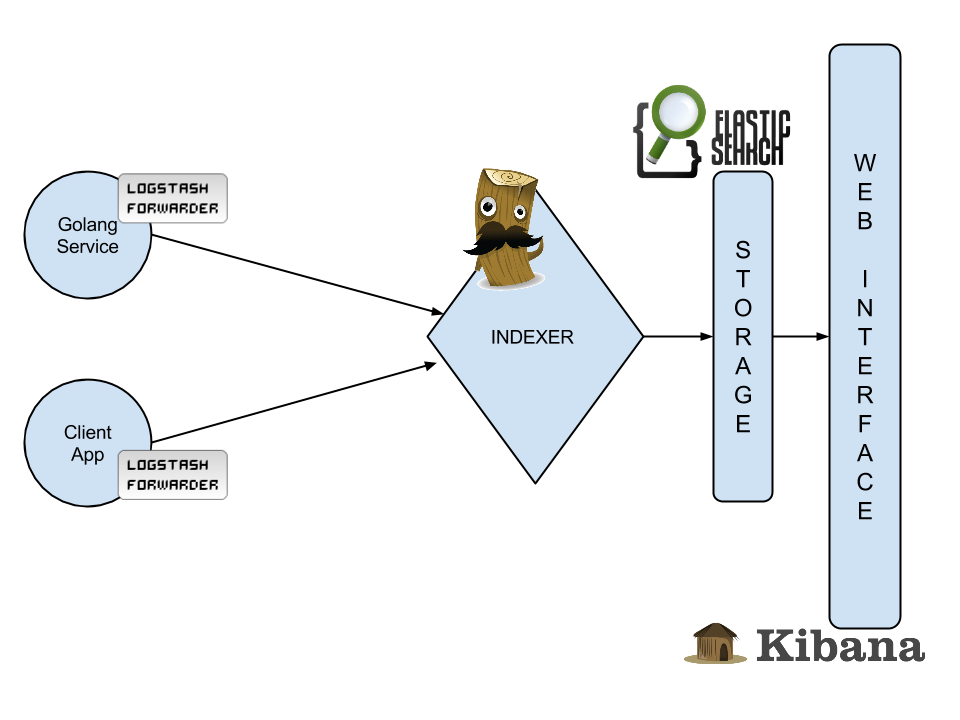
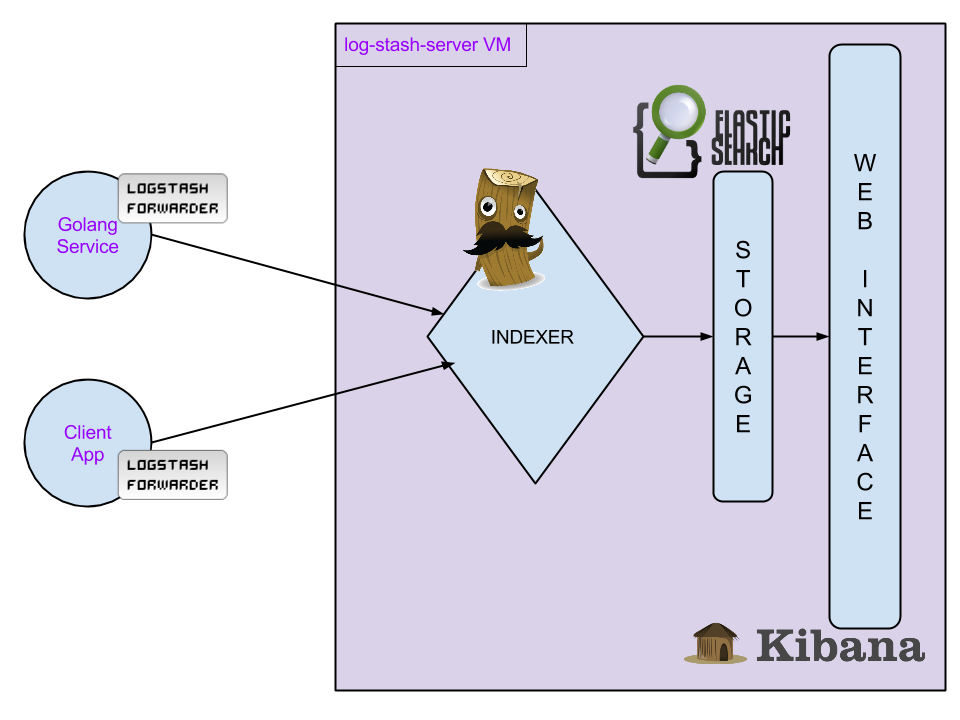
part 1 pretty

diff --git a/04-logstash/index-2.html b/04-logstash/index-2.html
@@ -32,35 +32,64 @@
 	<div class="row">
 		<div class="col-xs-10 col-xs-offset-1">
 			
-		 	<h1>Logstash + Grok + Elasticsearch + Kibana</h1>
-
-			<h2>Setup log-stash-server</h2>
+		 	<h1>Logstash + Elasticsearch + Kibana</h1>
+			<img src="http://blog.xebia.fr/wp-content/uploads/2013/12/file-logstash-es-kibana.png" alt="Logstash setup diagram.">
+			
 			<div>
-				Logstash should have been installed via puppet.
-				Generate SSL Certificates. We create a /ssl folder within logstash to store the created key and cert
+			<h2>Sections</h2>
+			<ul>
+				<li>Part 1: Setup Logstash Server & Elasticsearch</li>
+				<li>Part 2: Setup Logstash Forwarder</li>
+				<li>Part 3: Setup Kibana</li>
+			</ul>
+			</div>
+
+			<h2>Part 1: Setup Logstash Server & Elasticsearch</h2>
+			<ol>
+			<li>
+				Spin up log-stash-server:
+				<div class="code">
+				vagrant up log-stash-server
+				vagrant ssh log-stash-server
+				</div>
+				<p>When you spin up log-stash-server vm, Logstash and Elasticsearch should have been installed via puppet.</p></br>
+
+			</li>
+
+			<li>
+				Generate SSL Certificates so that vm's can talk to each other. Create a '/ssl' folder within logstash to store the created key and cert:
 				<div class="code">
 				<b>sudo</b> mkdir /opt/logstash/ssl/
 				<b>sudo</b> openssl req -x509 -batch -nodes -days 3650 -newkey rsa:2048 -keyout /opt/logstash/ssl/logstash-forwarder.key -out /opt/logstash/ssl/logstash-forwarder.crt
 				</div>
+			</li>
+
+			<li>
 				Configure logstash config file, put it in /opt/logstash
 				<div class="code">
 				<b>sudo</b> vim /opt/logstash/logstash-server.conf
 				</div>
-				Copy the content from the sample-logstash-server.conf
+				<p>Copy the content from the sample-logstash-server.conf
 				Change port to some port number you want (we use 9876)
-				Change ssl_certificate and ssl_key to point to the cert and private key we created earlier (/opt/logstash/ssl/logstash-forwarder.crt     and    /opt/logstash/ssl/logstash-forwarder.key)
+				Change ssl_certificate and ssl_key to point to the cert and private key we created earlier (/opt/logstash/ssl/logstash-forwarder.crt     and    /opt/logstash/ssl/logstash-forwarder.key)</p></br>
+			</li>	
 				
+			<li>	
 				Pre-step in setting up Logstash Forwarder: copy the ssl cert we generated earlier to client app vm via /vagrant share folder. To do that, copy ssl cert to /vagrant share folder:
 				<div class="code">
 				cp /opt/logstash/ssl/logstash-forwarder.crt /vagrant/
 				</div>
+			</li>
 
+			<li>
 				<h4>Start Elasticserach</h4>
 				<div class="code">
 				<b>sudo</b> nohup /usr/share/elasticsearch/bin/elasticsearch &
 				</div>
 				(optional) if you want to check if ES is running: ps -ef | grep nohup
-				
+			</li>
+
+			<li>
 				<h4>Start logstash by using this command:</h4>
 				<div class="code"> 
 				/opt/logstash/bin/logstash -f /opt/logstash/logstash-server.conf
@@ -71,7 +100,13 @@
 				Using milestone 1 filter plugin 'syslog_pri'. This plugin should work, but would benefit from use by folks like you. Please let us know if you find bugs or have suggestions on how to improve this plugin.  For more information on plugin milestones, see http://logstash.net/docs/1.4.2-modified/plugin-milestones {:level=>:warn}."
 				</div>
 				But you will not see any output, because no service is outputting to logstash-server yet.
-			</div>
+			</li>
+			
+		</div>
+
+
+
+
 
 			<h2>Setup Logstash Forwarder in client-app + web-service</h2>
 			<div>
@@ -120,7 +155,7 @@
 				http://<your>-log-stash-server.local:9200/_search?pretty=true&size=1000
 			</div>
 
-			<h2>Kibana</h2>
+			<h2>Setup Kibana</h2>
 			<div>
 				<div class="code">
 				<b>sudo</b> yum install httpd
